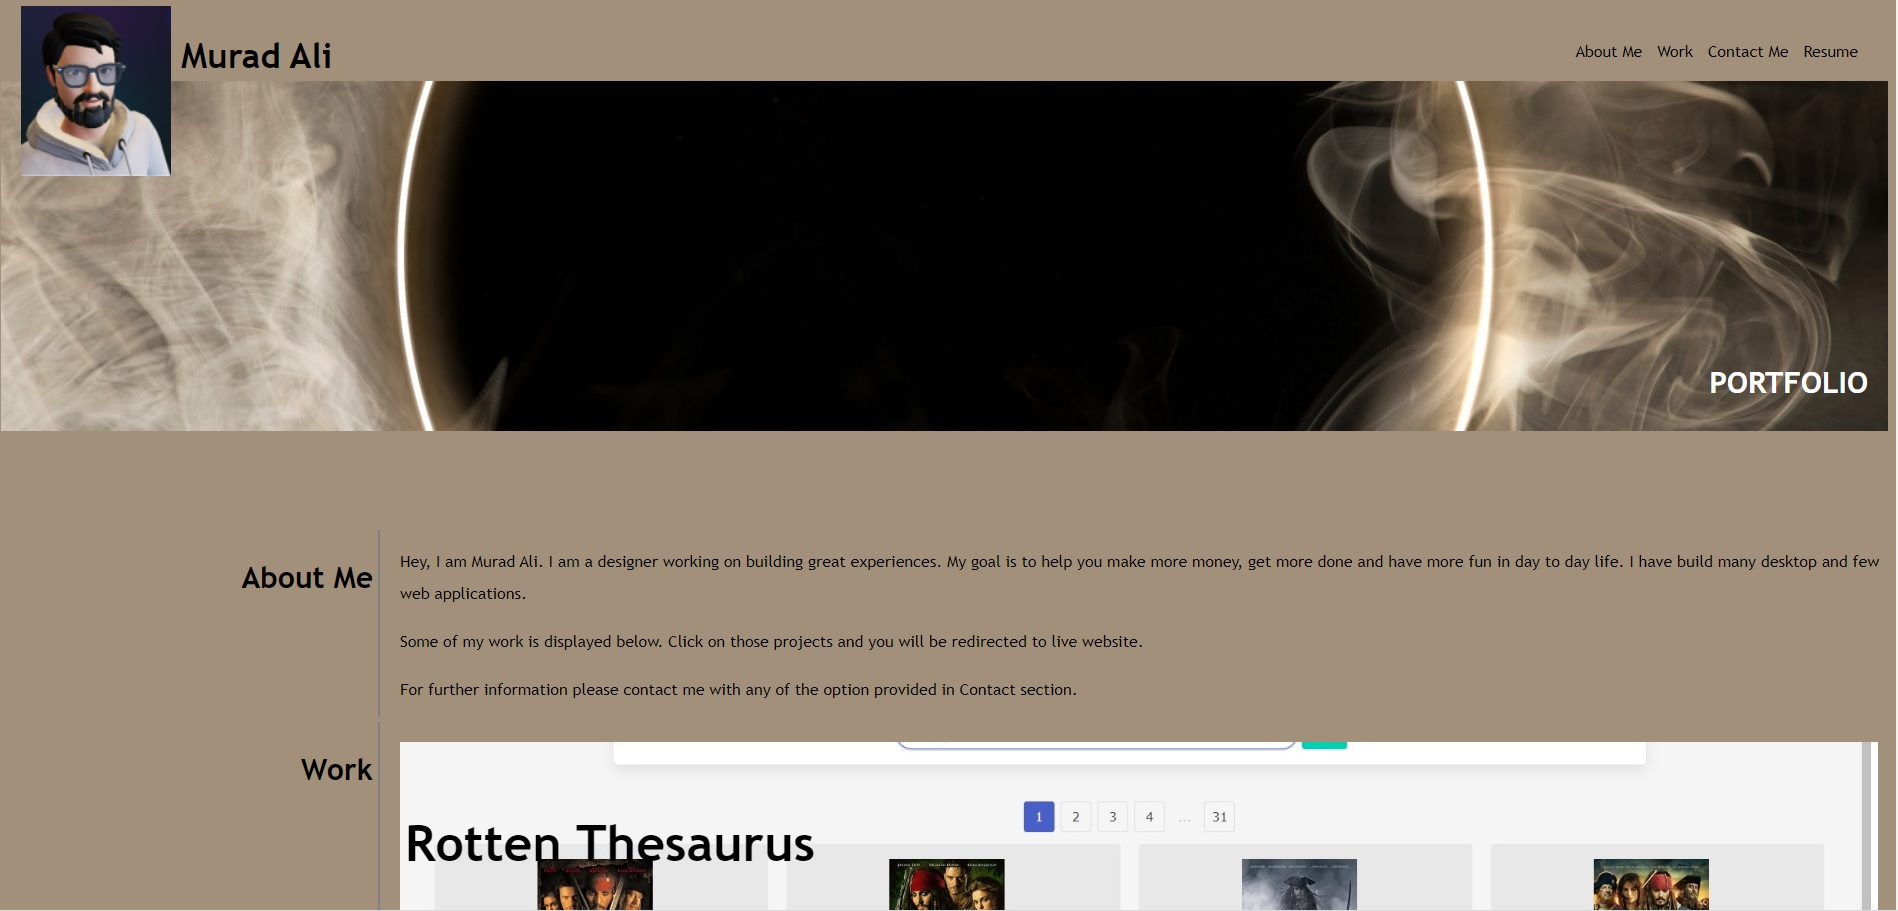
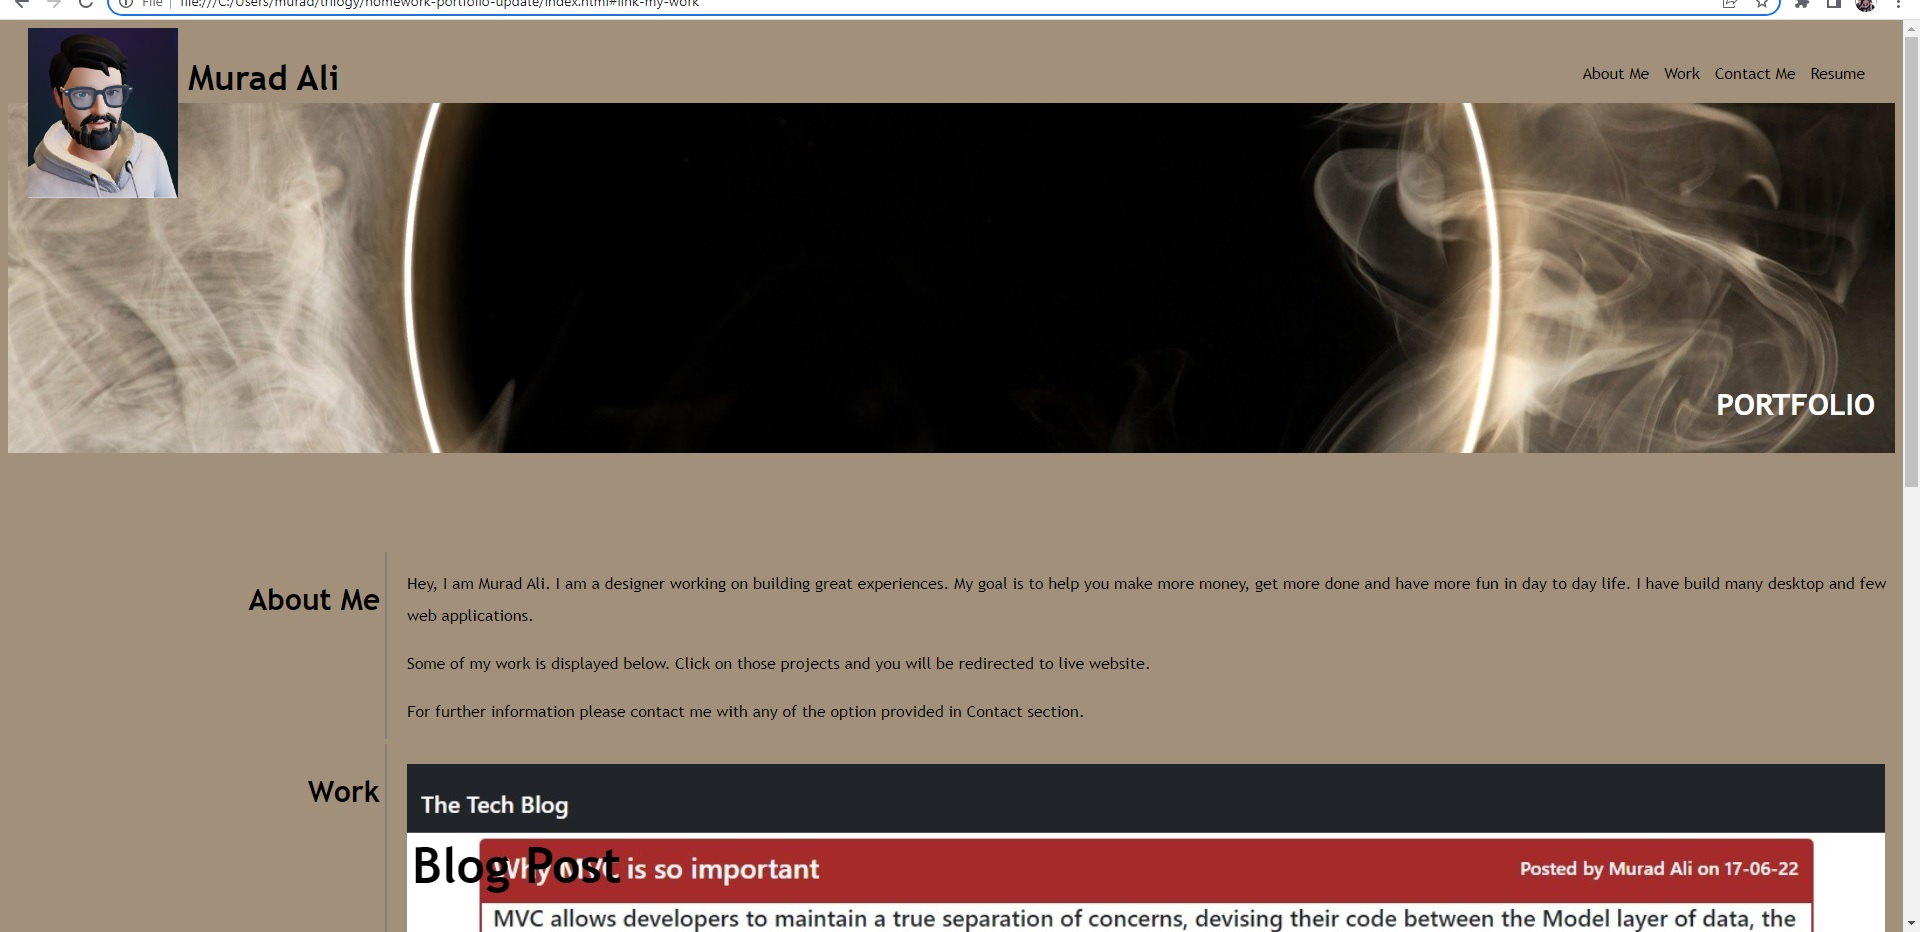
final commit with all the necessary changes

Changed region(s): [[0.0, 0.0, 1.0, 1.0], [0.0622, 0.2766, 0.1865, 0.4303], [0.0933, 0.2459, 0.1554, 0.2766]]

diff --git a/README.md b/README.md
@@ -1,1 +1,42 @@
-# homework-portfolio-update
+# PORTFOLIO
+Bootcamp assignment
+
+## Description
+
+I used previous PORTFOILIO assignment and updated it with new projects and details.
+
+
+## Table of Contents
+
+- [URL (deployed application)](#url)
+- [URL (github repository)](#urlrepo)
+- [Layout](#layout)
+- [Credits](#credits)
+- [License](#license)
+
+## URL (deployed application)<a name="url"></a>
+
+Following is the url link to access the deployed application.
+
+https://muradmanni.github.io/homework-portfolio-professional/
+
+
+## URL (github repository)<a name="urlrepo"></a>
+
+Following link is to access the code files using github repository.
+
+https://github.com/muradmanni/homework-portfolio-professional
+
+
+## Layout
+   ![screenshot of the webpage](assets/images/screenshot1.jpg)
+
+   ![screenshot of the webpage](assets/images/screenshot2.jpg)
+
+## Credits
+
+Previous portfolio assignment.
+
+## License
+
+The application is covered under the following license: [MIT](https://choosealicense.com/licenses/mit/)
